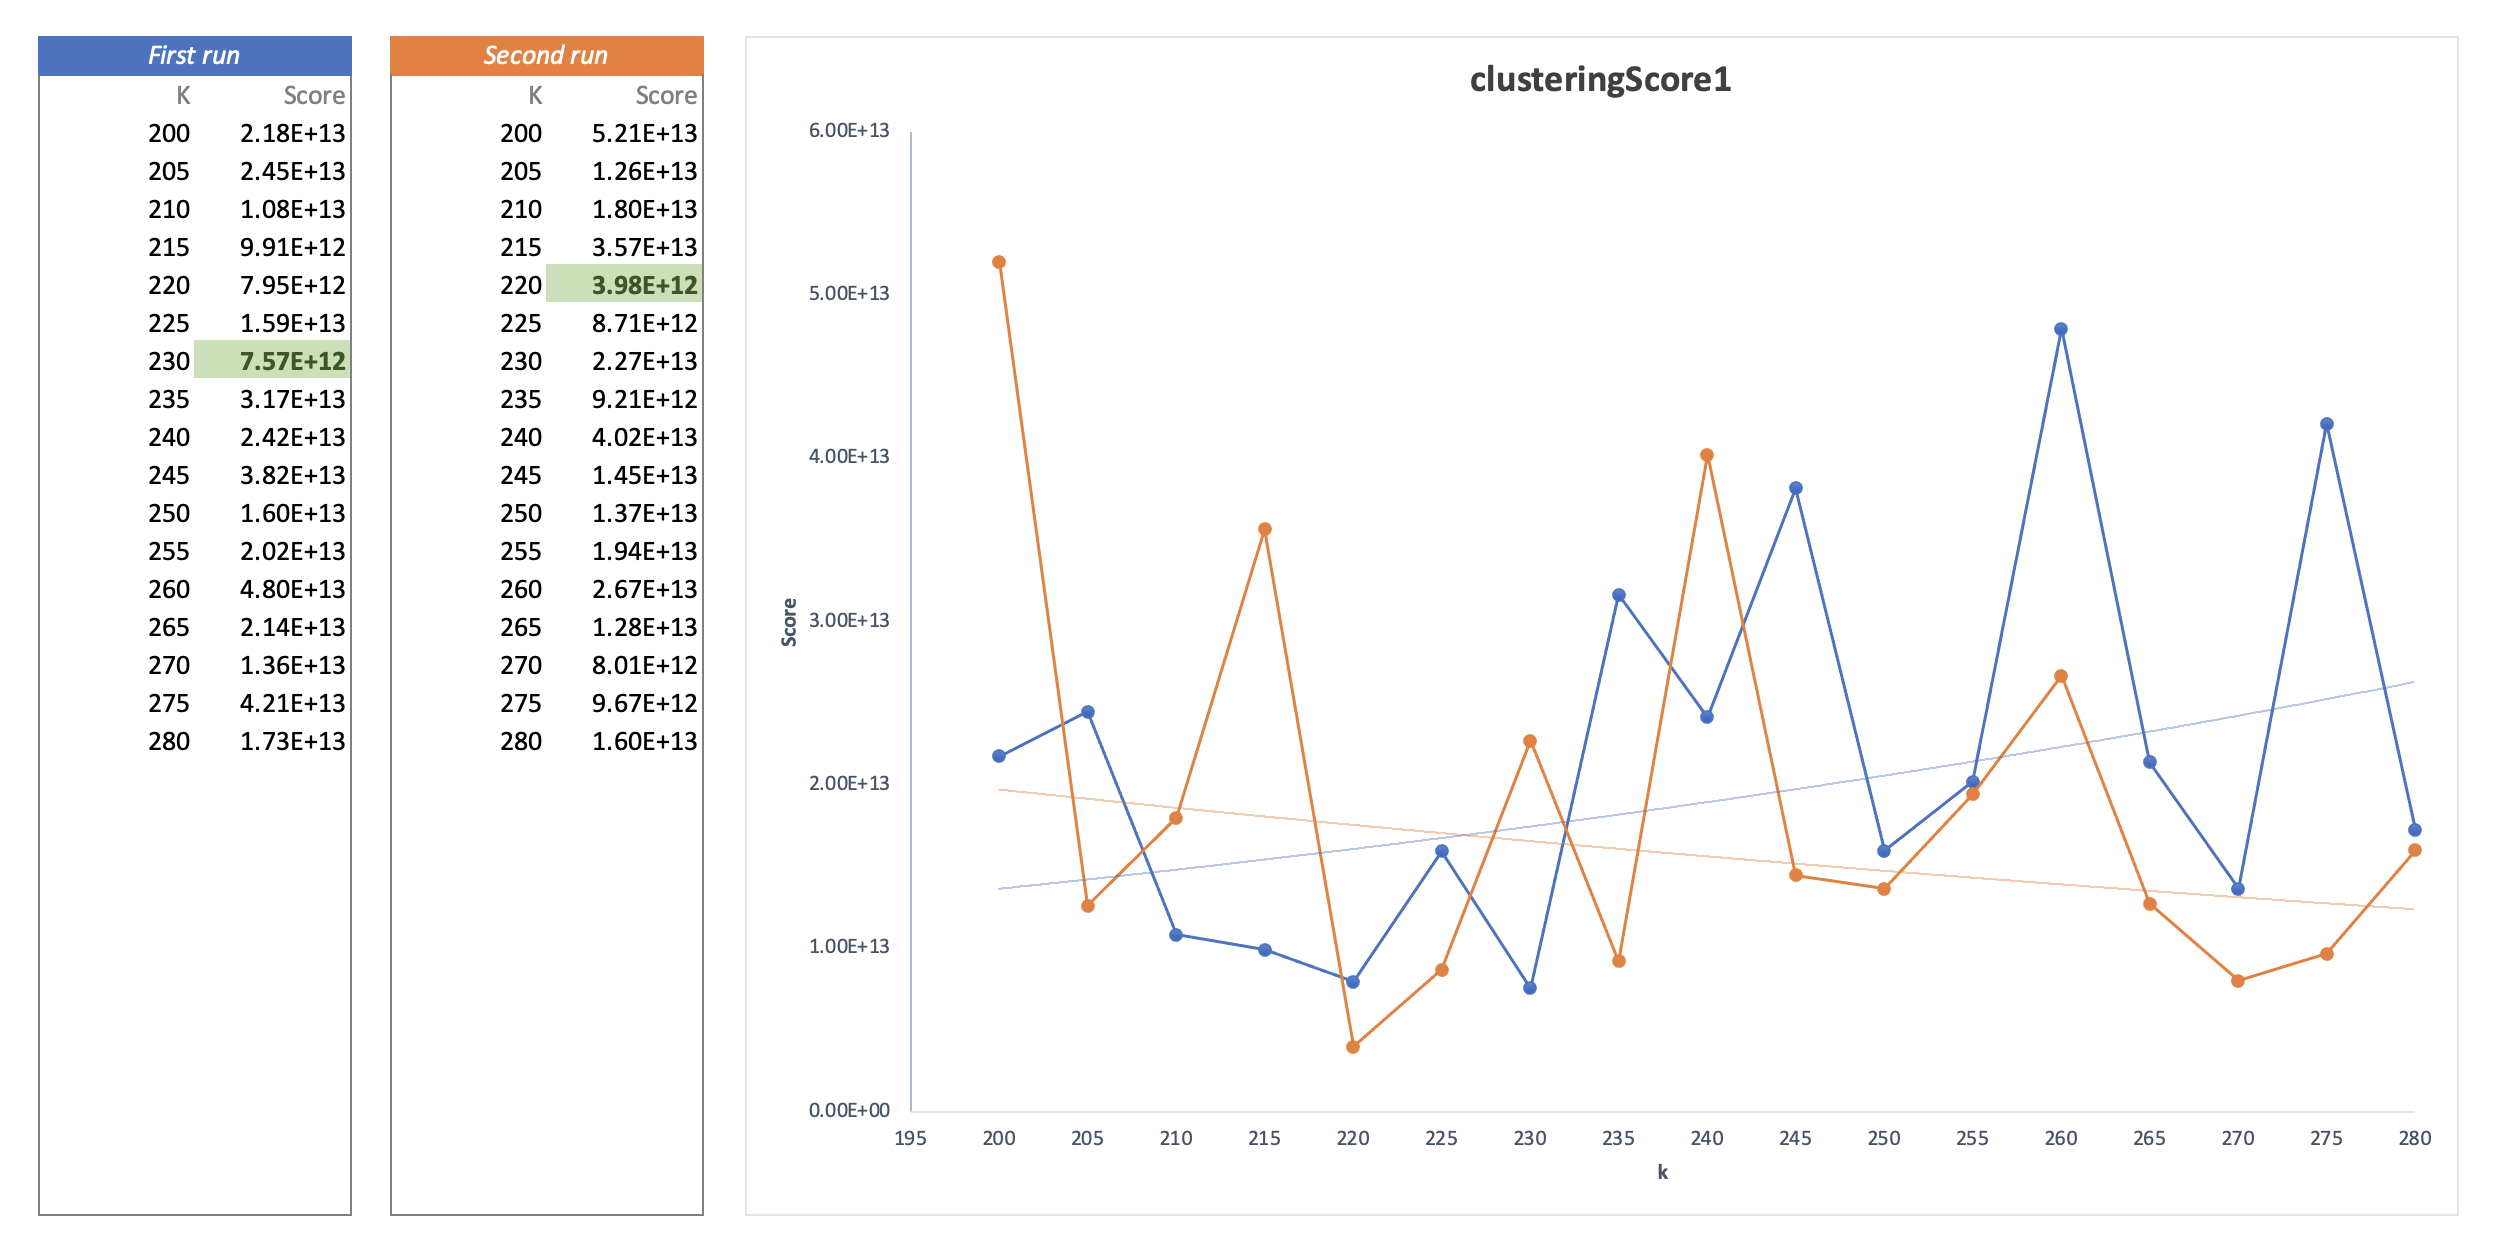
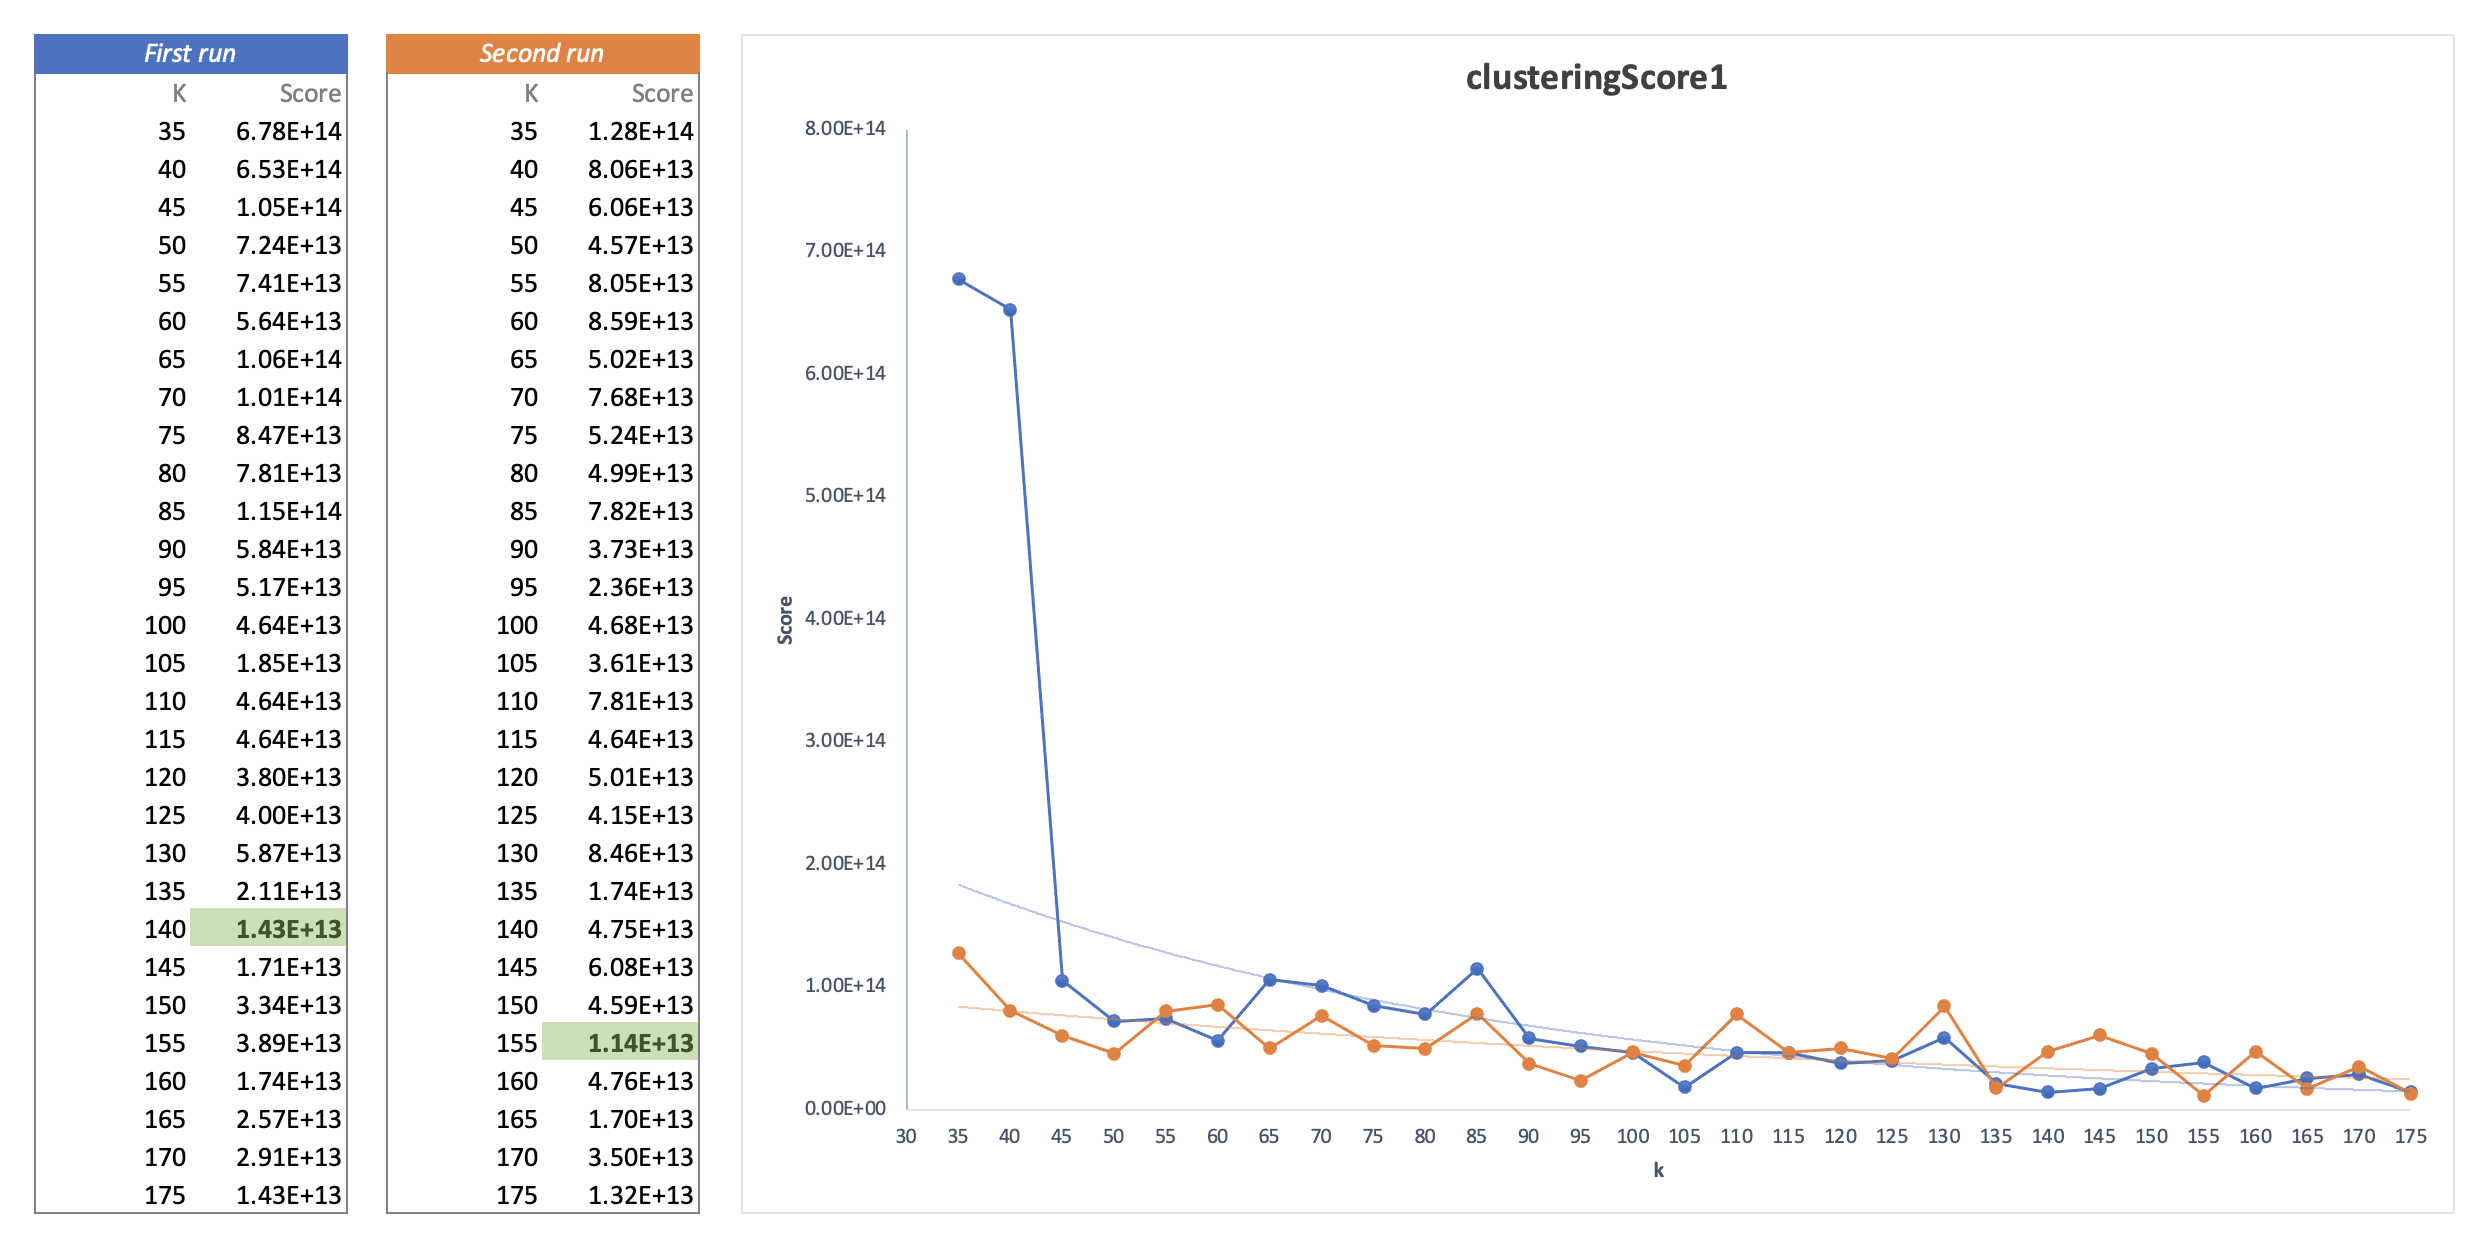
clusteringScore1

diff --git a/README.md b/README.md
@@ -195,28 +195,42 @@ As we see again, the score decreases as k increases and the best score value for
 | *k from 200 to 320, jumps of 5*<br> ![clusteringScore0](images/Qb-clusteringScore0-3.png) |
 |:---:|
 
-Not surprisingly, the best score is now obtained with k = 320. In view of the results, this method will not be sufficient to determine the best value of k.
+Not surprisingly, the best score is now obtained with k = 320. In view of the results, this method will not be sufficient to determine the best value of k. It is therefore necessary to make some improvements.
 
 ###### clusteringScore1
 
-**TODO: Explain whats is clusteringScore1 and improvements (setMaxIter, setTol)**
+To improve the classification, we can run the iteration for a longer time via the `setTol()` method. This method controls the minimum significant amount of centroid movement. It is also possible to increase the maximum number of iterations with the `setMaxIter()` method which will prevent the algorithm from stopping too soon.
 
-Here again, we chose to make the value of k evolve between 20 and 300 with jumps of 10 to see first results.
+Here again, we chose to make the value of k evolve between 20 and 300 with jumps of 10 to see first results. We increase the max iteration from default value 20 to 40 and decrease the tolerance value from default 1.0e-4 to 1.0e-5.
+
+The aim is to find the "elbow" in the graph beyond which the increase in k stops reducing the score significantly.
 
 | *k from 20 to 300, jumps of 10*<br> ![clusteringScore0](images/Qb-clusteringScore1-1.png) |
 |:---:|
 
-| *k from 200 to 280, jumps of 5*<br> ![clusteringScore0](images/Qb-clusteringScore1-2.png) |
+| *k from 35 to 175, jumps of 5*<br> ![clusteringScore0](images/Qb-clusteringScore1-2.png) |
 |:---:|
+
+With this max iteration and tolerance values, the elbow seems to be around 120.
+
+| *k from 200 to 280, jumps of 5*<br> ![clusteringScore0](images/Qb-clusteringScore1-3.png) |
+|:---:|
+
+If we try with largers k-values, we see a kind of anarchy and no "elbow" at all!
 
 ###### clusteringScore2
 
-**TODO: Explain whats is clusteringScore2 and improvements**
+To further improve our results and find the right value of k we can normalise the different characteristics. MLlib provides the `StandardScale` class which allows you to easily perform these standarisations.
 
 | *k from 20 to 300, jumps of 10*<br> ![clusteringScore0](images/Qb-clusteringScore2-1.png) |
 |:---:|
 
-| *k from 220 to 320, jumps of 5*<br> ![clusteringScore0](images/Qb-clusteringScore2-2.png) |
+With this normalisation, the elbow seems to be around 160.
+
+| *k from 20 to 200, jumps of 5*<br> ![clusteringScore0](images/Qb-clusteringScore2-2.png) |
+|:---:|
+
+| *k from 220 to 320, jumps of 5*<br> ![clusteringScore0](images/Qb-clusteringScore2-3.png) |
 |:---:|
 
 ###### clusteringScore3
